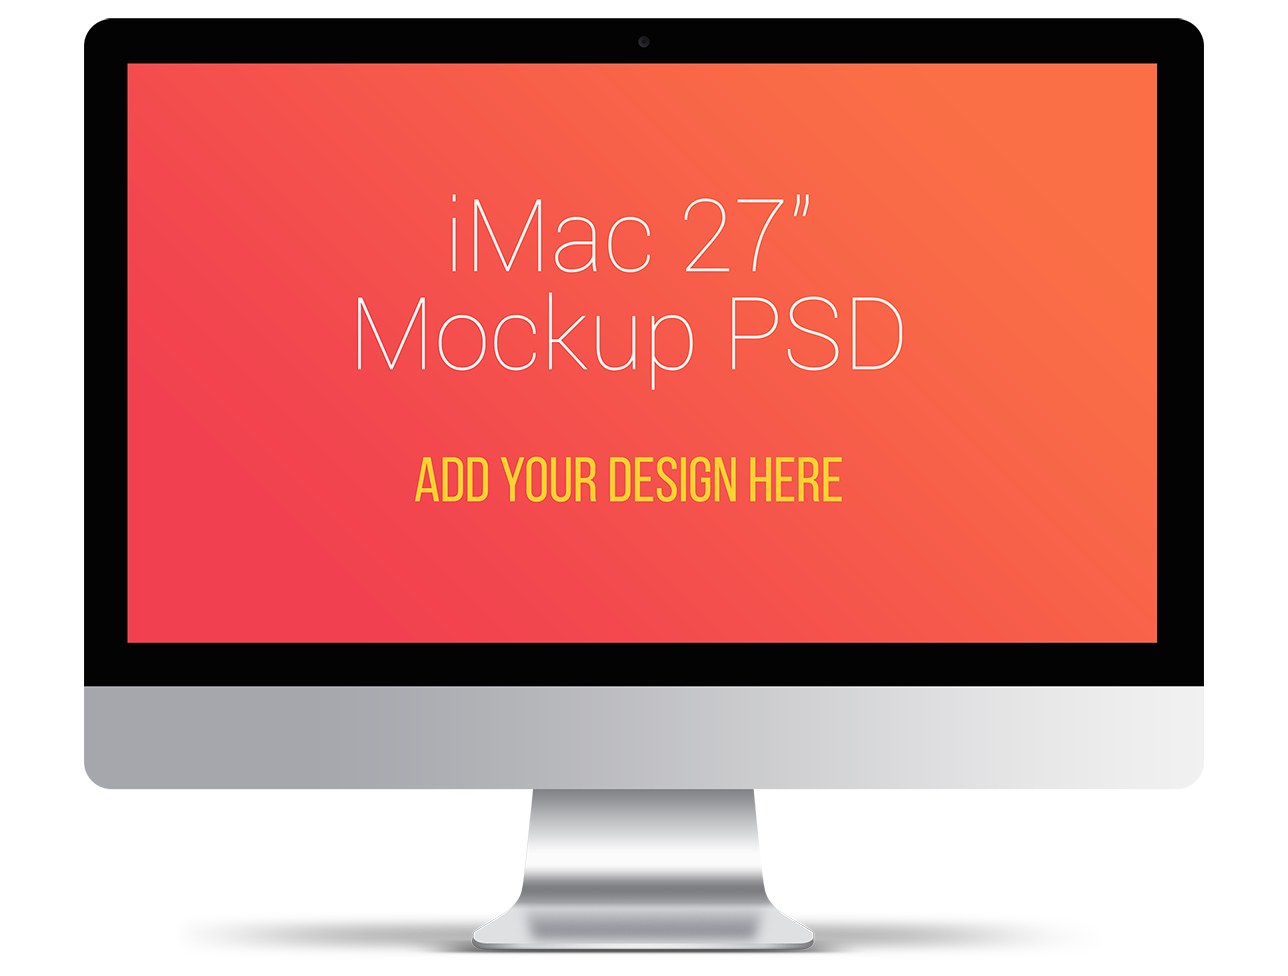
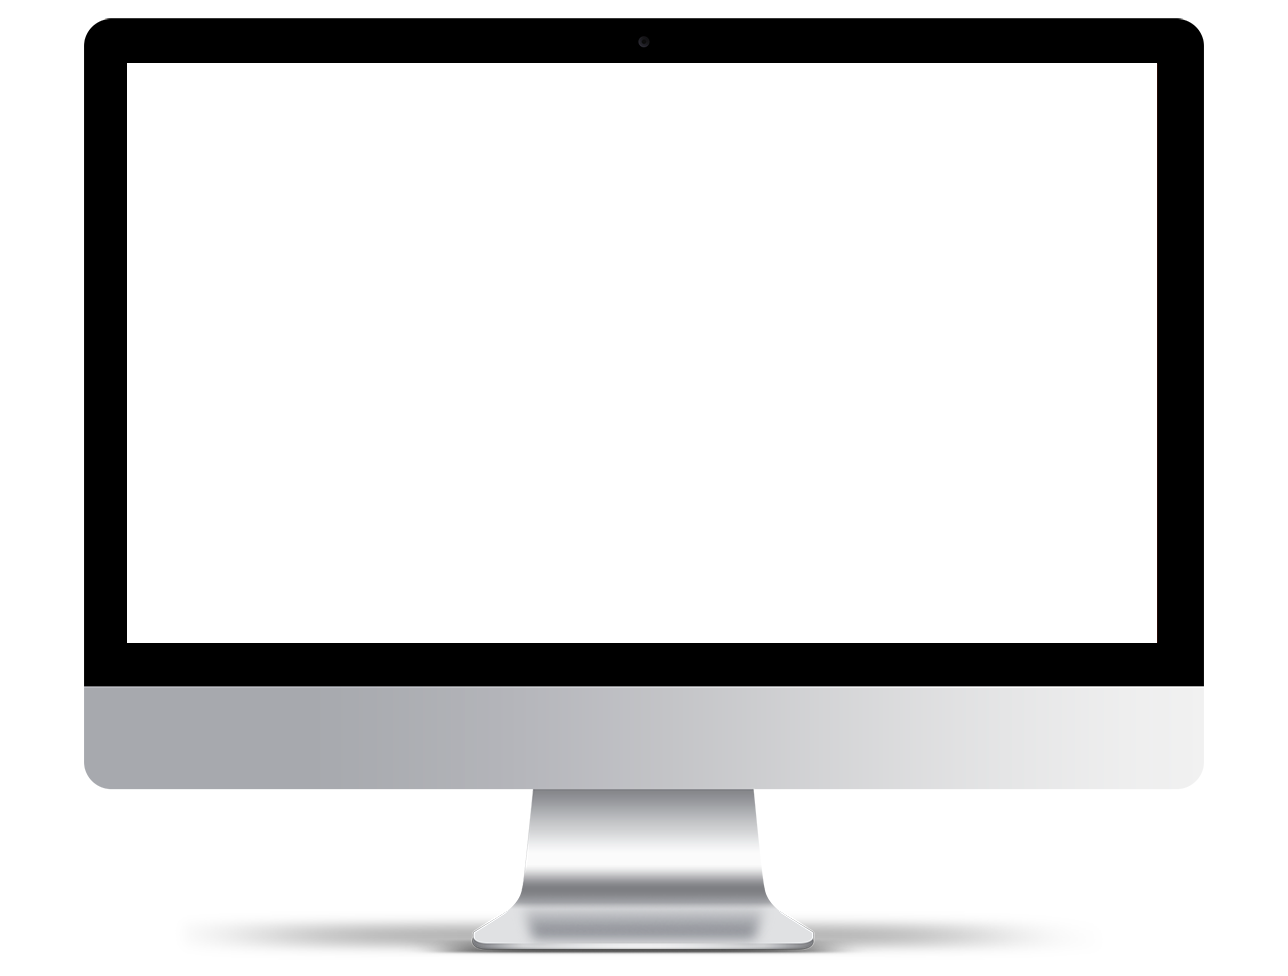
imac

diff --git a/app/assets/stylesheets/application.css b/app/assets/stylesheets/application.css
@@ -635,8 +635,9 @@ header:hover {
 
 #landing .imac {
   background: url('iMac.png') no-repeat center top;
-  width: 100%;
-  height: 976px;
+  background-size: contain;
+  width: 1024px;
+  height: 776px;
   display: inline-block;
   position: relative;
 }
@@ -646,10 +647,10 @@ header:hover {
 	background-position: center 0;
   background-repeat: no-repeat;
   position: absolute;
-  width: 1033px;
-  height: 580px;
-  top: 63px;
-  left: 0;
+  width: 821px;
+  height: 461px;
+  top: 50px;
+  left: -5px;
   background-size: cover;
   right: 0;
   margin: 0 auto;
